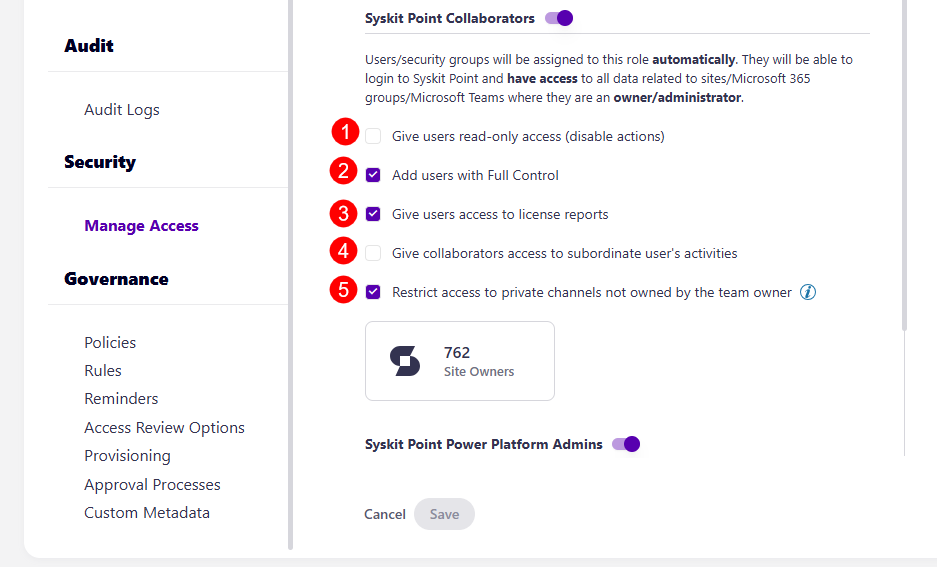
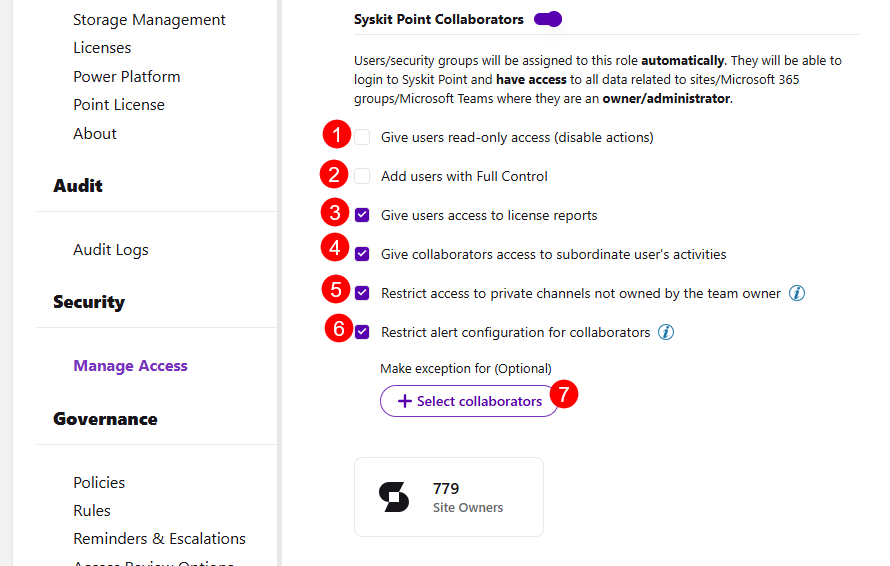
Merge pull request #1179 from SysKitTeam/staging
SaaS release note 05.05 - v2026.2.140

Pull request: SaaS release note 05.05 - v2026.2.140

diff --git a/sidebars.ts b/sidebars.ts
@@ -26,6 +26,7 @@ const sidebars: SidebarsConfig = {
             id: 'releases/cloud/README',
           },
           items: [
+            'releases/cloud/point-2026-05-05-release-note',
             'releases/cloud/point-2026-04-28-release-note',
             'releases/cloud/point-2026-04-21-release-note',
             'releases/cloud/point-2026-04-16-release-note',

diff --git a/docs/releases/cloud/point-2026-05-05-release-note.md b/docs/releases/cloud/point-2026-05-05-release-note.md
@@ -1,0 +1,27 @@
+---
+description: This article lists new features, improvements, and bug fixes in the Syskit Point Cloud version 2026.2.140.1
+---
+
+# May 5, 2026
+
+[Start a free trial](https://www.syskit.com/products/point/free-trial/) and [tell us what you think](https://www.syskit.com/company/contact-us/).
+
+## About Syskit Point Cloud
+
+* **New to Syskit Point Cloud?** Explore Syskit Point Cloud with a 21-day [free trial](https://www.syskit.com/products/point/free-trial/) for an easy and effective way to manage and secure your environment.
+
+* **Already using Syskit Point Cloud?** Syskit Point Cloud is automatically upgraded to the latest version when available. The automatic update occurs outside working hours to ensure minimal interference with your day-to-day business. The new version will begin rolling out with this announcement and is expected to reach all customers within the next few days.
+
+
+## Improvements & Bug Fixes
+
+* **Added the option** to restrict alert configuration for collaborators to the Manage Access settings.
+  * When enabled, **alert configuration for collaborators is restricted**.
+  * Exceptions can be added by **selecting collaborators** who can configure alerts regardless of the restriction.
+  * [See the updated article on managing access to Syskit Point for more information](../../configuration/enable-role-based-access.md#syskit-point-collaborators)
+
+* **Added support** for collecting file archive and file restore action events in audit logs.
+
+* **Improved site synchronization stability** to reduce delays and ensure consistent performance.
+
+* **Various improvements, including UX and UI fixes, have been implemented.**

diff --git a/docs/storage-management/versioning-limits.md b/docs/storage-management/versioning-limits.md
@@ -4,9 +4,11 @@ description:  This article explains how to create and apply Storage Versioning 
 
 # Storage Versioning Limits 
 
-Having to manually keep up with file versions in your workspaces can be unnecessarily time-consuming. Now, you can **set up versioning limits for your storage**, and automate actions based on the limit settings.
+Having to manually track file versions in your workspaces can be unnecessarily time-consuming. Now, you can **set up versioning limits for your storage**, and automate actions based on the limit settings.
 
 **Storage Versioning Limits help you limit the number of file versions kept in SharePoint document libraries**. File versions are deleted after exceeding the number of versions you set, the time period you set, or both.
+
+Since Microsoft requires a defined retention limit, **the major version count limit is enabled by default for manual version settings in Point**. The major version count limit controls how many major versions are kept for a file before older versions are permanently deleted. 
 
 :::warning
 **Please note!** \
@@ -25,7 +27,7 @@ There are three default limits set up:
 * **Automatic (Default Limit) (3)** - automatically applies optimal storage of versions based on their age and probability of getting restored
 * **Inherit Tenant (Default Limit) (4)** - inherits global tenant limit
   * The Automatic and Inherit Tenant limits cannot be edited.
-* **Manual (Default Limit) (5)** - Manual cleanup that runs daily with a 100 count limit and 180 day time limit
+* **Manual (Default Limit) (5)** - Manual cleanup that runs daily with a 100 count limit and a 180-day time limit
   * The Manual limit can be **edited (6)** to adjust the count and time limits based on your personal preferences.
 
 To create a new storage versioning limit, click the **Create New Limit (6)** button.
@@ -38,6 +40,7 @@ The Create New Manual Storage Limit pop-up opens. There, you can select:
 * **Count Limit (2)** - select the checkbox if you want to place a count limit on your workspaces
   * Select the **count limit (3)** you want to place as the maximum limit for the number of versions a file can have
   * Once a file exceeds the number of versions you place, the oldest versions start getting removed
+  * This is **turned on by default, and cannot be turned off** due to Microsoft's required retention limits
 * **Time Limit (4)** - select the checkbox if you want to place a time limit on your workspaces
   * Select the **time limit (5)** you want to place as the maximum limit for how old a version can be before getting removed
   * File versions older than the time limit you set get removed once the threshold you set is passed.
@@ -47,12 +50,12 @@ The Create New Manual Storage Limit pop-up opens. There, you can select:
 :::info
 **Please note** the following:
 
-* If **Count Limit is selected**, after the versions surpass the set number, they are automatically deleted from older to newest. (ex. if 100 versions are selected for the count limit, then after the 101 version is created, the older version is deleted).
+* If **Count Limit is selected**, after the versions surpass the set number, they are automatically deleted from oldest to newest. (for example, if 100 versions are selected for the count limit, then after the 101 version is created, the older version is deleted).
 
-* If **Time Limit is selected**, versions older than the set period will automatically be deleted. (ex. If 30 days are set as the time limit, then versions older than 30 days are deleted).  
+* If the **Time Limit is selected**, versions older than the set period will automatically be deleted. (for example, if 30 days are set as the time limit, then versions older than 30 days are deleted).  
 
-* If both Count Limit and Time Limit are selected, then both are taken into account for version limits. For example, with a 100-count limit and 30-day time limit selected, the following happens: 
-  * All versions older than 30 days are deleted even if there are fewer than 100 versions.
+* If both Count Limit and Time Limit are selected, then both are taken into account for version limits. For example, with a 100-count limit and a 30-day time limit selected, the following happens: 
+  * All versions older than 30 days are deleted, even if there are fewer than 100 versions.
   * If 100 versions are reached before the 30-day time limit, the older versions are automatically deleted even though they are still within the time limit.
 
 * The new rule **will not affect any versions created before** the versioning limits are applied. 
@@ -93,7 +96,7 @@ Selecting this opens the Storage Metrics report, where you can:
 
 ![Storage Versioning Limits - Tenant - Selection](../../static/img/storage-versioning-limits-new-limit-tenant-select.png)
 
-* **Set Version Limit** on one or more sites by **select one or more workspaces (1)**.
+* **Set Version Limit** on one or more sites by **selecting one or more workspaces (1)**.
 * Click the **Set Version Limit (2)** button on the right side.
 
 ![Storage Versioning Limits - Set Version Limit on Workspace](../../static/img/storage-versioning-limits-new-limit-workspaces.png)
@@ -140,7 +143,7 @@ In some instances, even after setting up storage versioning limits, you **might 
 
 The **Storage Versioning Limits only apply to new file versions created after the policy is enabled**. Older file versions are not automatically deleted **unless a manual cleanup is performed first**. For example:
 
-* If you only set a **version count limit** (for example, keep 100 versions), and run the manual cleanup once **before** enabling the policy, the **manual cleanup removes all excess file versions** and from then on the **cleanup is handled automatically** for new versions
+* If you only set a **version count limit** (for example, keep 100 versions) and run the manual cleanup once **before** enabling the policy, the **manual cleanup removes all excess file versions**, and from then on, the **cleanup is handled automatically** for new versions
 
 * If you are using the version count limit in combination with the time limit, the feature **only applies the time-based deletion to versions created after the policy was set**, so versions that were not old enough at the time of the initial cleanup will not be deleted later, unless you repeat manual cleanup over time
   * If you are using the **Time Limit**, we recommend **repeating manual cleanup periodically during the first year**.
@@ -149,7 +152,7 @@ The **Storage Versioning Limits only apply to new file versions created after th
 :::info
 **Please note**: Even with storage cleanup automation turned on, you might notice that Potential Savings are still growing. This is expected due to:
 * **Some older file versions may remain if they were not manually deleted during the initial cleanup**
-* **There is a delay in storage sync, which can happen in large environments** which means that file versions that were already deleted in SharePoint could still appear in reports until the next sync is completed
+* **There is a delay in storage sync, which can happen in large environments**, which means that file versions that were already deleted in SharePoint could still appear in reports until the next sync is completed
   * Depending on the size of the environment, the storage sync can take **up to a month**
   * If you have a large tenant, you can use **on-demand sync to target specific environments or sites** instead of waiting for the full sync cycle to be completed
 

diff --git a/docs/configuration/enable-role-based-access.md b/docs/configuration/enable-role-based-access.md
@@ -137,6 +137,8 @@ Additional options available when the Collaborators role is enabled:
 * **Restrict access to private channels not owned by the team owner (5)** – when enabled, allows team owners to see private channels they don't own, but does not allow them access to the private channel's content, which ensures transparency without compromising privacy
   * This option is enabled by default
   * The team owner can still view content for private channels of which they are owners
+* **Restrict alert configuration for collaborators (6)** - when enabled, alert configuration for collaborators is restricted, but exceptions can be added by selecting collaborators who can create alerts despite the restriction. 
+   * To select exceptions, **click the Select collaborators** button below and search for the users you want to set as exceptions.
 
 
 ![Collaborators - Options](../../static/img/enable-role-based-access-collaborator-options.png)